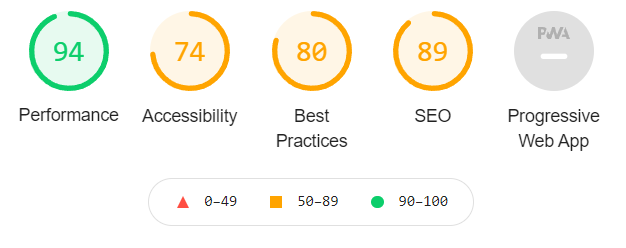
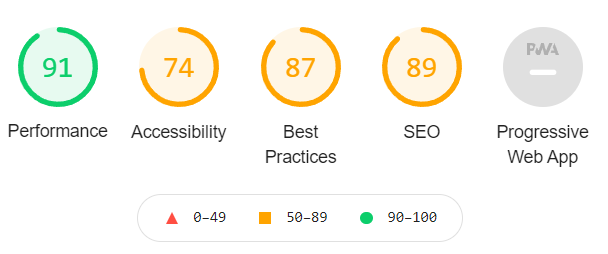
Add lighthouse

diff --git a/README.md b/README.md
@@ -259,22 +259,22 @@ My database schema was initially built in excel and then built using the online 
 * The website was viewed on a variety of device sizes such as Desktop, Samsung S10, Samsung tablet and Iphone 11, I also used the responsive function when inspecting the pages to view various sizes. 
 
 ## Performance testing
-I ran the Lighthouse tool to check performance of the website. 
+I ran the Lighthouse tool to check performance of the website. The performance on the products page is as expected for a page with a lot of images to display.
 Screenshots of the final test are presented below:
 * Desktop
     * Home page
     <img src="media/home_lighthouse_desktop.PNG">
     
-    * Shop
-    <img src="#">
+    * Products
+    <img src="media/products_lighthouse_desktop.PNG">
     
 
 * Mobile
     * Home page
-    <img src="#">
+    <img src="media/home_lighthouse_mobile.PNG">
     
-    * Shop
-    <img src="#">
+    * Products
+    <img src="media/products_lighthouse_mobile.PNG">
  
 
 [Back to Table of Contents](https://github.com/Michelle3334/brainworks#table-of-contents)
